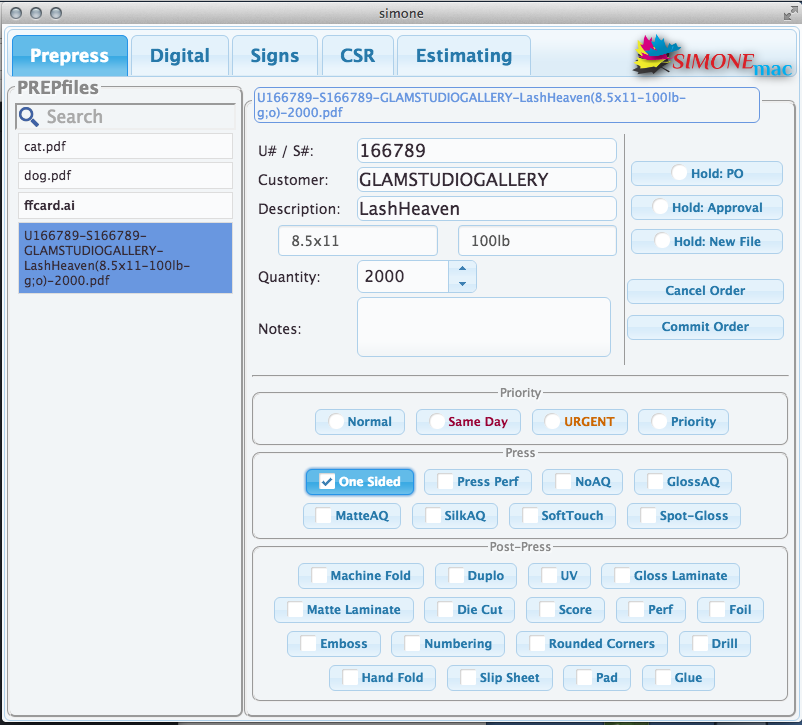
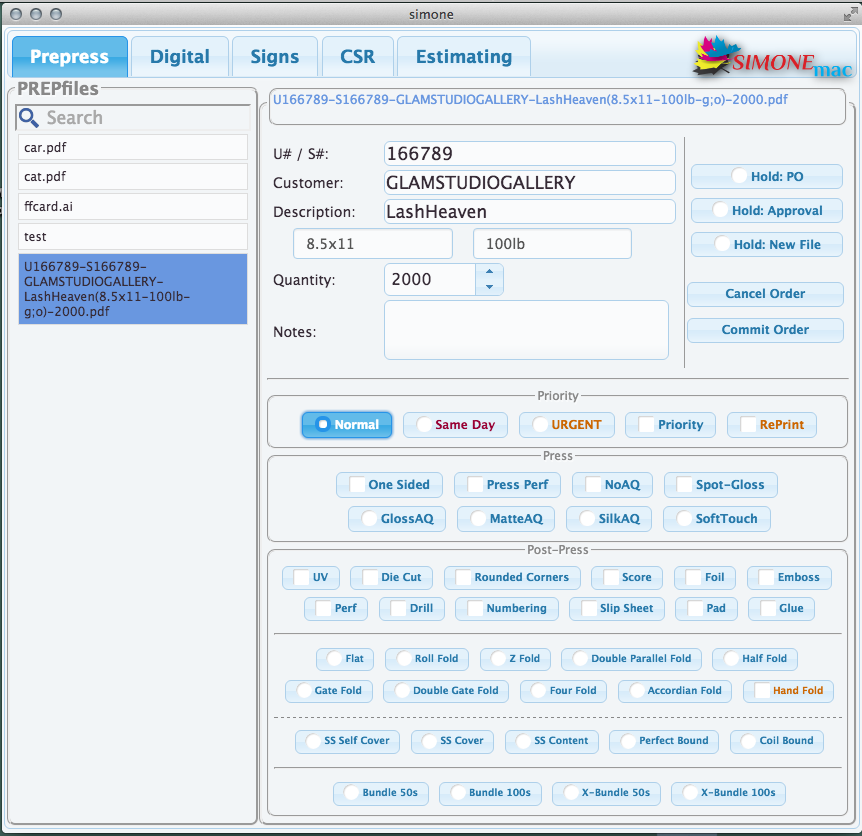
ui additions

Changed region(s): [[0.0, 0.0, 1.0, 1.0]]

diff --git a/main.html b/main.html
@@ -88,9 +88,24 @@ text-shadow: 1px 2px 0px rgba(255,255,255,.5); /* 50% white from bottom */
   padding:2px;
   margin:2px;
 }
+
 .small {
    font-size: .675em !important;
 }
+.smaller {
+   font-size: .6em !important;
+}
+.smallest {
+   font-size: .55em !important;
+}
+.dash{
+  border: 0 none;
+  border-top: 1px dashed #888;
+
+  background: none;
+  height:0;
+}
+
 #search {
   background: url(assets/images/magnify.png) no-repeat scroll 2px 2px;
 padding-left:30px;
@@ -115,7 +130,7 @@ padding-left:30px;
           <fieldset style="">
             <legend><b><span id="droppedFolder"><span style="color:green;">Drop folder here</span></span></b></legend>
             <input id="search" style="width:100%;" type="search" placeholder="Search" />
-            <div id="listcontainer" style="height:580px;overflow-y:scroll;">
+            <div id="listcontainer" style="height:687px;overflow-y:scroll;">
               <ol id="filelist" style="overflow:none;">
               </ol>
             </div>
@@ -124,7 +139,10 @@ padding-left:30px;
         </div>
         <div class="details">
           <fieldset style="height:100%;">
-            <legend><textarea class="ui-corner-all" rows="2" style="background:#F2F5F7; margin-top:10px; width:500px; resize:none; font-size:.7em; color:#6997E0;" id="selectedItem">No file</textarea></legend>
+            <legend><textarea class="ui-corner-all" rows="2" style="    border: 2px solid;
+                border-style: groove;
+                border-radius: 8px;
+background:#F2F5F7; margin-top:10px; width:570px; resize:none; font-size:.7em; color:#6997E0;" id="selectedItem">No file</textarea></legend>
             <table width="100%"><tr>
               <td><table width="100%">
                 <tr>
@@ -171,7 +189,9 @@ padding-left:30px;
                 <label class="small" for="urgent" style="color:rgba(204,102,0,1);">URGENT</label>
                   <input class="check" type="radio" name="urgent" id="urgent" >
                 <label class="small" for="priority">Priority</label>
-                  <input class="check" type="radio" name="priority" id="priority" >
+                  <input class="check" type="checkbox" name="priority" id="priority" >
+                <label class="small" for="reprint" style="color:rgba(204,102,0,1);">RePrint</label>
+                  <input class="check" type="checkbox" name="reprint" id="reprint" >
               </fieldset>
               <fieldset class="fieldsetsmall"><legend class="small">Press</legend>
                 <label class="small" for="onesided" style="">One Sided</label>
@@ -180,52 +200,85 @@ padding-left:30px;
                   <input class="check" type="checkbox" name="pressperf" id="pressperf">
                 <label class="small" for="noaq" style="">NoAQ</label>
                   <input class="check" type="checkbox" name="noaq" id="noaq">
-                <label class="small" for="glossaq" style="">GlossAQ</label>
-                  <input class="check" type="checkbox" name="glossaq" id="glossaq">
-                <label class="small" for="matteaq" style="">MatteAQ</label>
-                  <input class="check" type="checkbox" name="matteaq" id="matteaq">
-                <label class="small" for="silkaq" style="">SilkAQ</label>
-                  <input class="check" type="checkbox" name="silkaq" id="silkaq">
-                <label class="small" for="softtouch" style="">SoftTouch</label>
-                  <input class="check" type="checkbox" name="softtouch" id="softtouch">
                 <label class="small" for="spotgloss" style="">Spot-Gloss</label>
-                  <input class="check" type="checkbox" name="spotgloss" id="spotgloss">
+                  <input class="check" type="checkbox" name="spotgloss" id="spotgloss"><br />
+                <label class="small" for="glossaq" style="">GlossAQ</label>
+                  <input class="check" type="radio" name="glossaq" id="glossaq">
+                <label class="small" for="matteaq" style="">MatteAQ</label>
+                  <input class="check" type="radio" name="matteaq" id="matteaq">
+                <label class="small" for="silkaq" style="">SilkAQ</label>
+                  <input class="check" type="radio" name="silkaq" id="silkaq">
+                <label class="small" for="softtouch" style="">SoftTouch</label>
+                  <input class="check" type="radio" name="softtouch" id="softtouch">
               </fieldset>
               <fieldset class="fieldsetsmall"><legend class="small">Post-Press</legend>
-                <label class="small" for="machinefold" style="">Machine Fold</label>
-                  <input class="check" type="checkbox" name="machinefold" id="machinefold">
-                <label class="small" for="duplo" style="">Duplo</label>
-                  <input class="check" type="checkbox" name="duplo" id="duplo">
-                <label class="small" for="uv" style="">UV</label>
+                <label class="smaller" for="uv" style="">UV</label>
                   <input class="check" type="checkbox" name="uv" id="uv">
-                <label class="small" for="glosslaminate" style="">Gloss Laminate</label>
-                  <input class="check" type="checkbox" name="glosslaminate" id="glosslaminate">
-                <label class="small" for="mattelaminate" style="">Matte Laminate</label>
-                  <input class="check" type="checkbox" name="mattelaminate" id="mattelaminate">
-                <label class="small" for="diecut" style="">Die Cut</label>
+                <label class="smaller" for="diecut" style="">Die Cut</label>
                   <input class="check" type="checkbox" name="diecut" id="diecut">
-                <label class="small" for="score" style="">Score</label>
-                  <input class="check" type="checkbox" name="score" id="score">
-                <label class="small" for="perf" style="">Perf</label>
-                  <input class="check" type="checkbox" name="perf" id="perf">
-                <label class="small" for="foil" style="">Foil</label>
-                  <input class="check" type="checkbox" name="foil" id="foil">
-                <label class="small" for="emboss" style="">Emboss</label>
-                  <input class="check" type="checkbox" name="emboss" id="emboss">
-                <label class="small" for="numbering" style="">Numbering</label>
-                  <input class="check" type="checkbox" name="numbering" id="numbering">
-                <label class="small" for="roundedcorners" style="">Rounded Corners</label>
+                <label class="smaller" for="roundedcorners" style="">Rounded Corners</label>
                   <input class="check" type="checkbox" name="roundedcorners" id="roundedcorners">
-                <label class="small" for="drill" style="">Drill</label>
+                <label class="smaller" for="score" style="">Score</label>
+                  <input class="check" type="checkbox" name="score" id="score">
+                <label class="smaller" for="foil" style="">Foil</label>
+                  <input class="check" type="checkbox" name="foil" id="foil">
+                <label class="smaller" for="emboss" style="">Emboss</label>
+                  <input class="check" type="checkbox" name="emboss" id="emboss">
+                <label class="smaller" for="perf" style="">Perf</label>
+                  <input class="check" type="checkbox" name="perf" id="perf">
+                <label class="smaller" for="drill" style="">Drill</label>
                   <input class="check" type="checkbox" name="drill" id="drill">
-<label class="small" for="handfold" style="">Hand Fold</label>
-<input class="check" type="checkbox" name="handfold" id="handfold">
-<label class="small" for="slipsheet" style="">Slip Sheet</label>
-<input class="check" type="checkbox" name="slipsheet" id="slipsheet">
-<label class="small" for="pad" style="">Pad</label>
-<input class="check" type="checkbox" name="pad" id="pad">
-<label class="small" for="glue" style="">Glue</label>
-<input class="check" type="checkbox" name="glue" id="glue">
+                <label class="smaller" for="numbering" style="">Numbering</label>
+                  <input class="check" type="checkbox" name="numbering" id="numbering">
+                <label class="smaller" for="slipsheet" style="">Slip Sheet</label>
+                  <input class="check" type="checkbox" name="slipsheet" id="slipsheet">
+                <label class="smaller" for="pad" style="">Pad</label>
+                  <input class="check" type="checkbox" name="pad" id="pad">
+                <label class="smaller" for="glue" style="">Glue</label>
+                  <input class="check" type="checkbox" name="glue" id="glue">
+                <hr />
+                <label class="smallest" for="flat" style="">Flat</label>
+                  <input class="check" type="radio" name="flat" id="flat">
+                <label class="smallest" for="rollfold" style="">Roll Fold</label>
+                  <input class="check" type="radio" name="rollfold" id="rollfold">
+                <label class="smallest" for="zfold" style="">Z Fold</label>
+                  <input class="check" type="radio" name="zfold" id="zfold">
+                <label class="smallest" for="dpfold" style="">Double Parallel Fold</label>
+                  <input class="check" type="radio" name="dpfold" id="dpfold">
+                <label class="smallest" for="halffold" style="">Half Fold</label>
+                  <input class="check" type="radio" name="halffold" id="halffold">
+                <label class="smallest" for="gatefold" style="">Gate Fold</label>
+                  <input class="check" type="radio" name="gatefold" id="gatefold">
+                <label class="smallest" for="dgatefold" style="">Double Gate Fold</label>
+                  <input class="check" type="radio" name="dgatefold" id="dgatefold">
+                <label class="smallest" for="fourfold" style="">Four Fold</label>
+                  <input class="check" type="radio" name="fourfold" id="fourfold">
+                <label class="smallest" for="accordianfold" style="">Accordian Fold</label>
+                  <input class="check" type="radio" name="accordianfold" id="accordianfold">
+                <label class="smallest" for="handfold" style="color:rgba(204,102,0,1);">Hand Fold</label>
+                  <input class="check" type="checkbox" name="handfold" id="handfold">
+                <hr class="dash" />
+                <label class="smallest" for="ssself" style="">SS Self Cover</label>
+                  <input class="check" type="radio" name="ssself" id="ssself">
+                <label class="smallest" for="sscover" style="">SS Cover</label>
+                  <input class="check" type="radio" name="sscover" id="sscover">
+                <label class="smallest" for="sscontent" style="">SS Content</label>
+                  <input class="check" type="radio" name="sscontent" id="sscontent">
+                <label class="smallest" for="perfect" style="">Perfect Bound</label>
+                  <input class="check" type="radio" name="perfect" id="perfect">
+                <label class="smallest" for="coil" style="">Coil Bound</label>
+                  <input class="check" type="radio" name="coil" id="coil">
+
+
+                <hr />
+                <label class="smallest" for="bun50" style="">Bundle 50s</label>
+                  <input class="check" type="radio" name="bun50" id="bun50">
+                <label class="smallest" for="bun100" style="">Bundle 100s</label>
+                  <input class="check" type="radio" name="bun100" id="bun100">
+                <label class="smallest" for="xbun50" style="">X-Bundle 50s</label>
+                  <input class="check" type="radio" name="xbun50" id="xbun50">
+                <label class="smallest" for="xbun100" style="">X-Bundle 100s</label>
+                  <input class="check" type="radio" name="xbun100" id="xbun100">
 
                 </fieldset>
                 </center>

diff --git a/simone.js b/simone.js
@@ -25,10 +25,10 @@ function createMainWindow () {
   var dimensions = mainScreen.size;
 
   // Create the browser window.
-  mainWindow = new BrowserWindow({width: 800, height: 720,
+  mainWindow = new BrowserWindow({width: 860, height: 830,
     transparent: false,frame: true,toolbar: true,resizable: true,titleBarStyle:'default',type:'textured',kiosk: false,acceptFirstMouse: false})
 
-  mainWindow.setPosition(dimensions.width-800, 1)
+  mainWindow.setPosition(dimensions.width-860, 1)
 
   // and load the index.html of the app.
   mainWindow.loadURL(`file://${__dirname}/main.html`)
